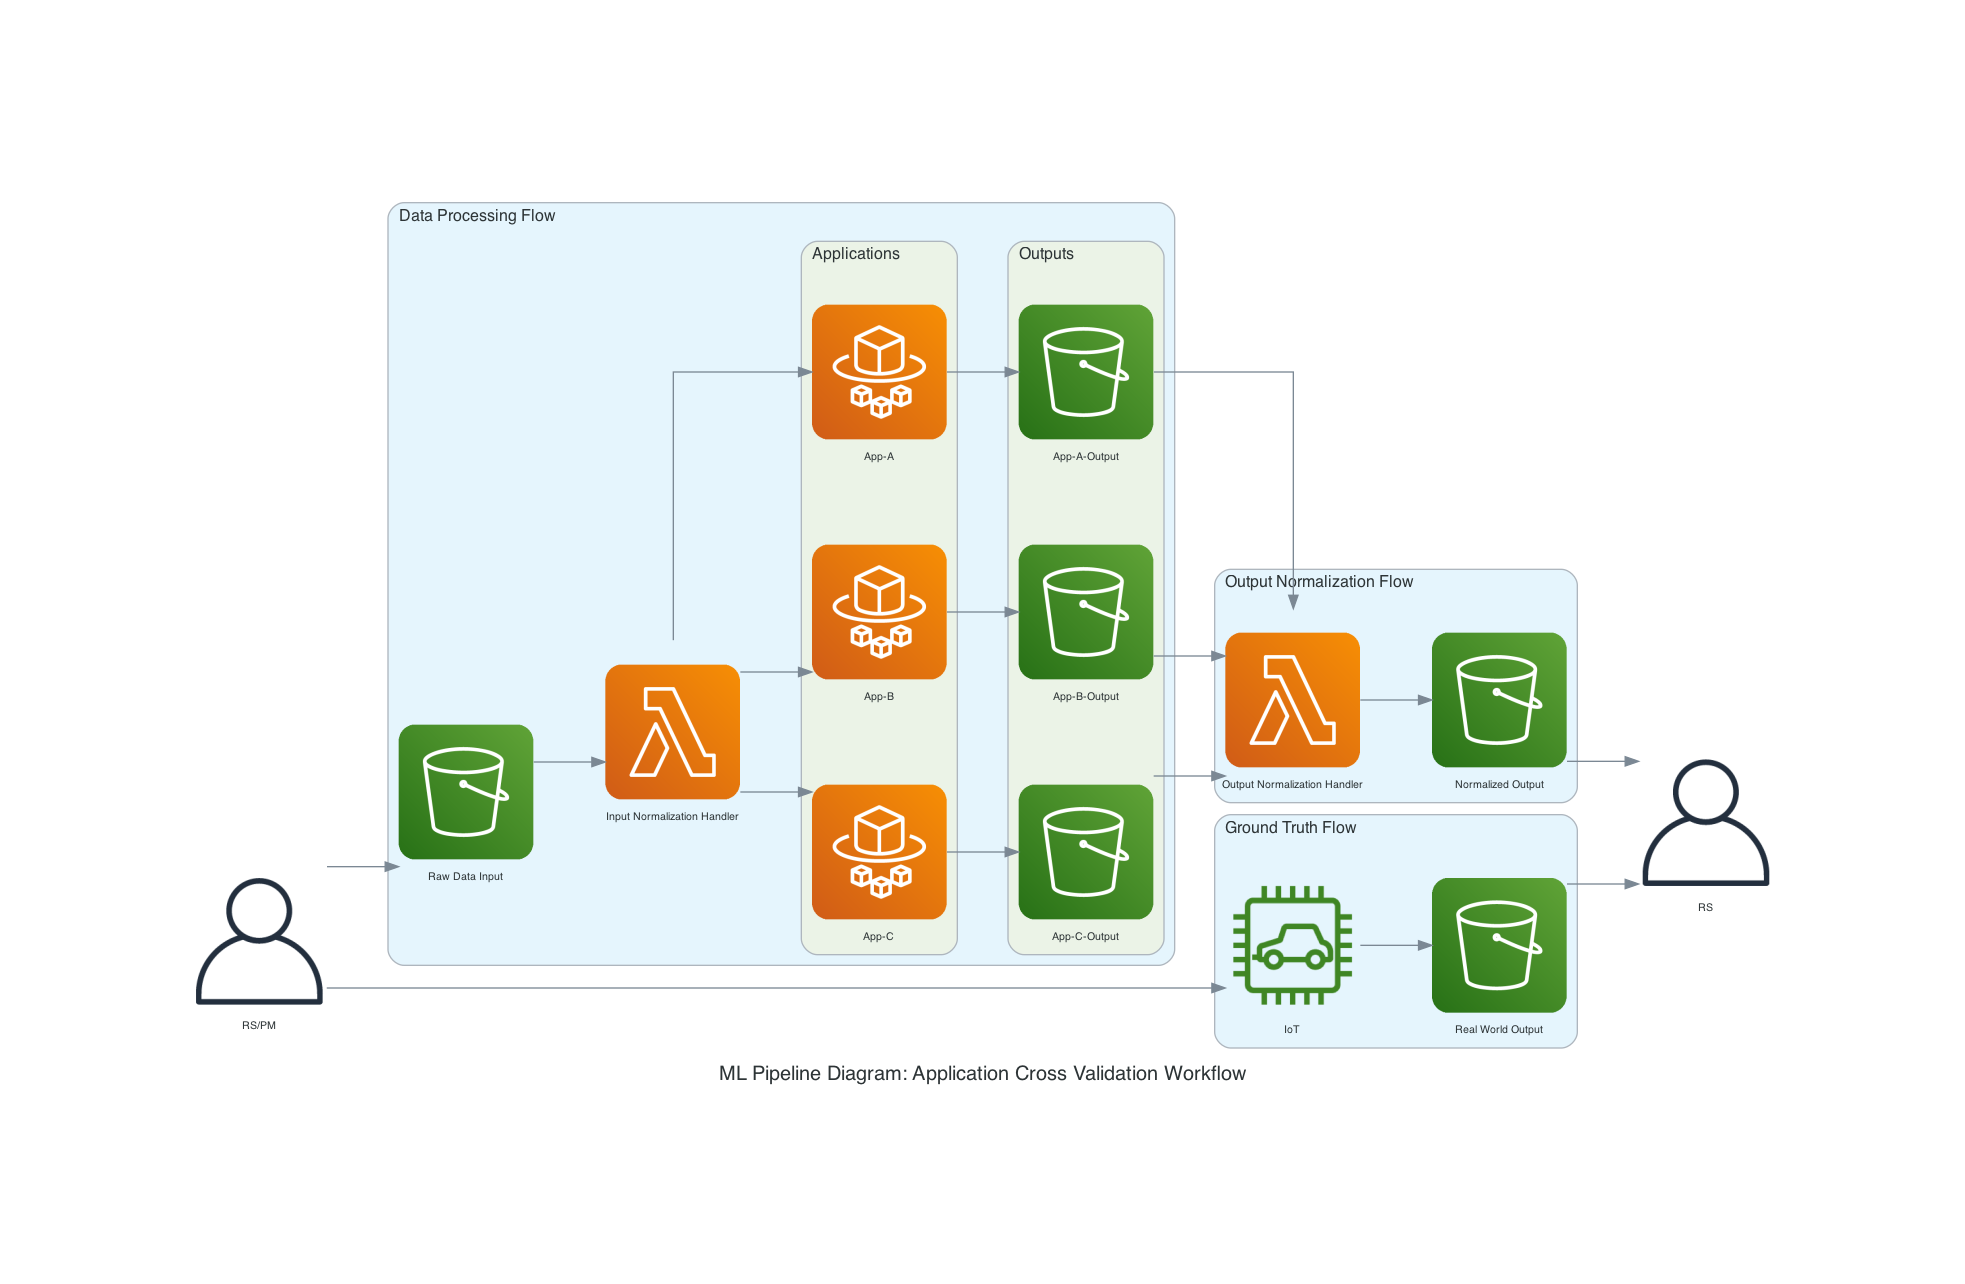
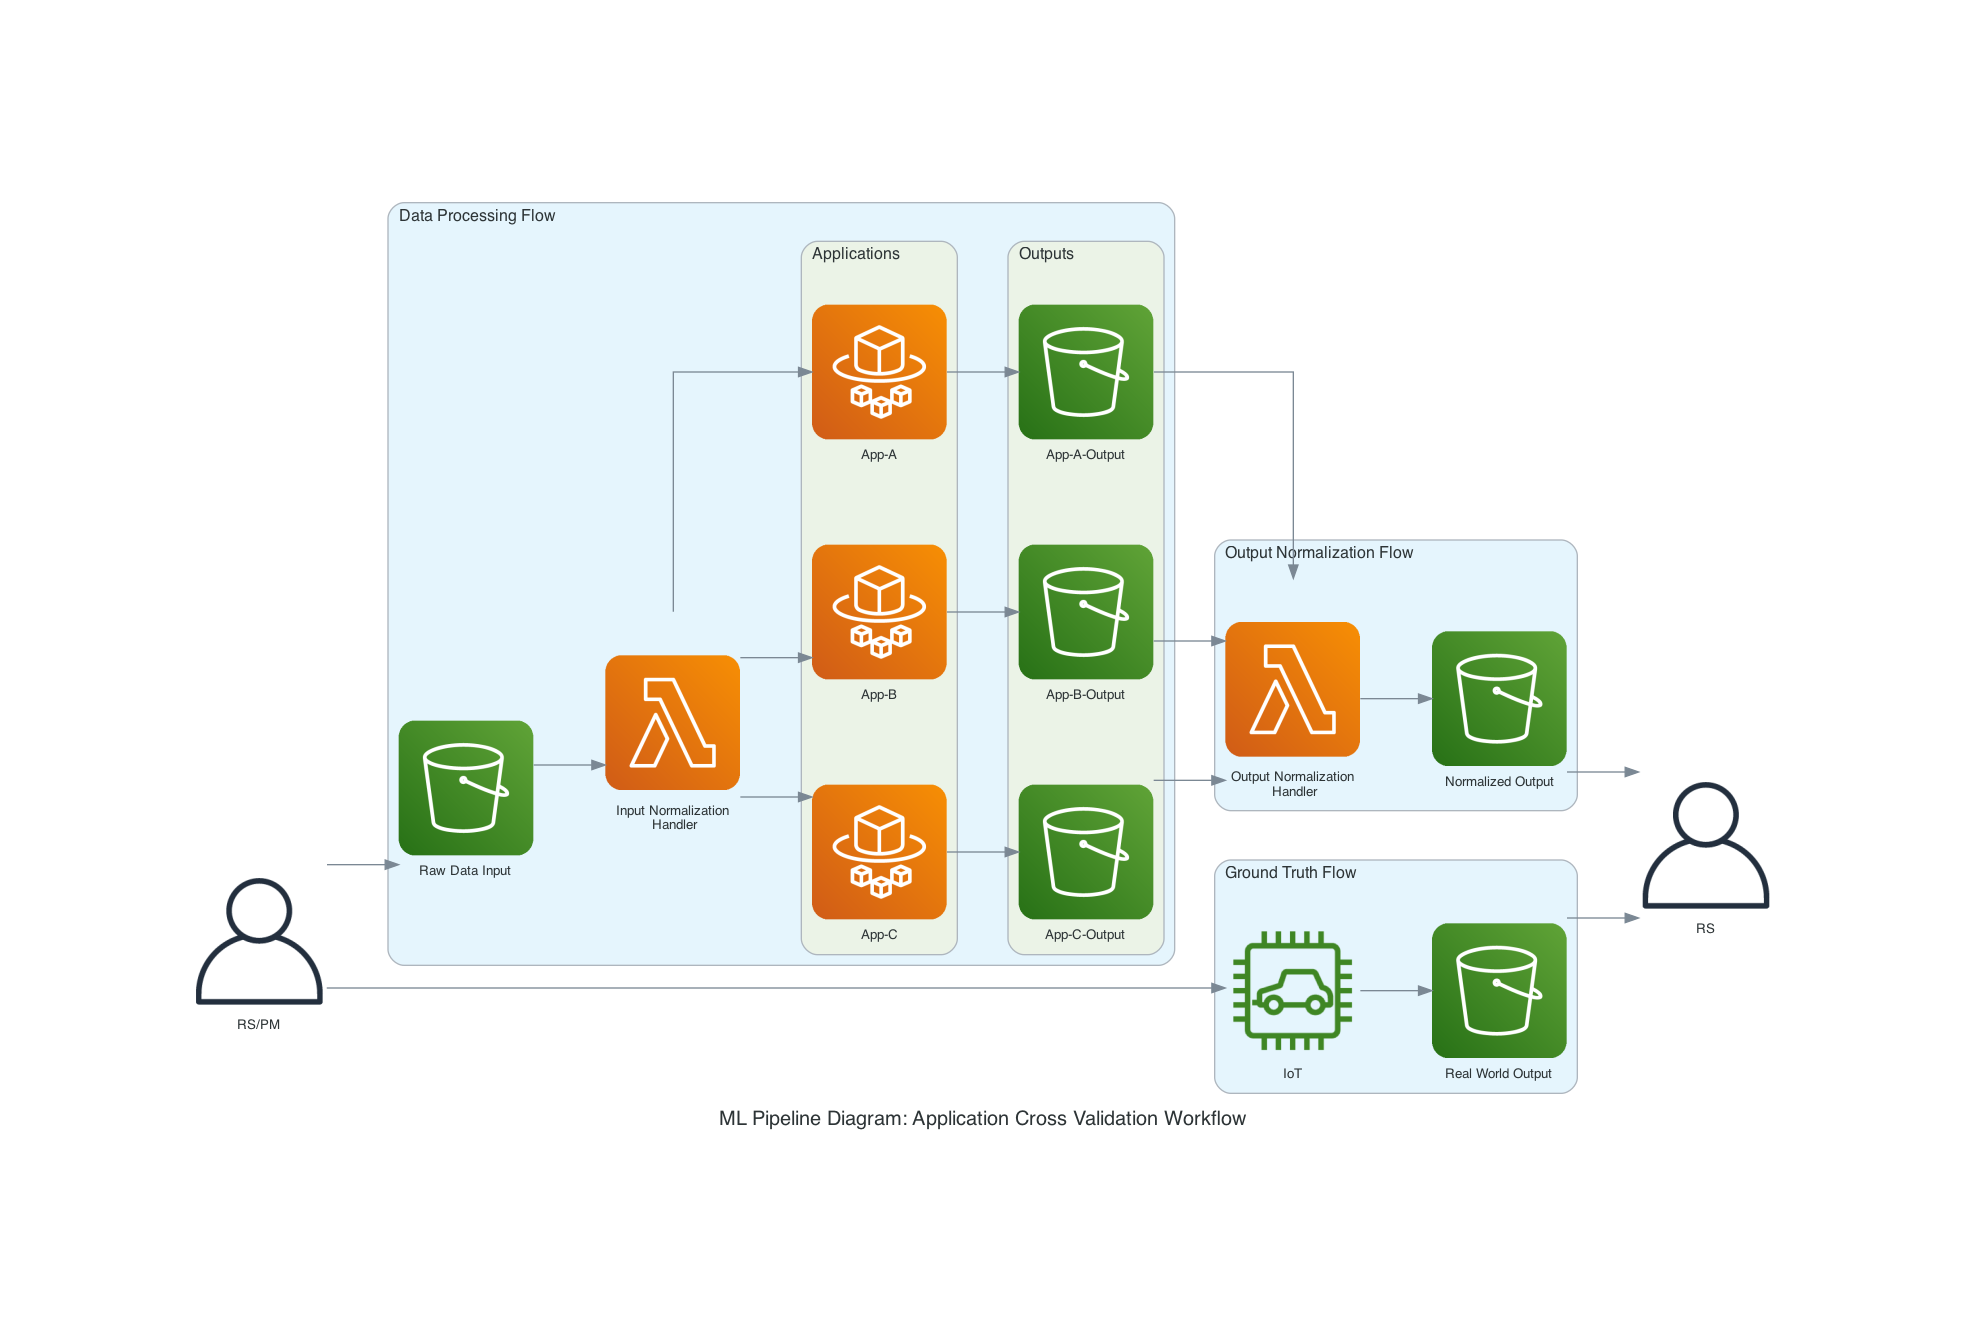
Update newline for node label

Changed region(s): [[0.0931, 0.405, 0.9003, 0.8723], [0.1863, 0.1246, 0.5898, 0.3738]]

diff --git a/src/diagram.py b/src/diagram.py
@@ -6,7 +6,7 @@ from diagrams.aws.general import User
 from diagrams.aws.iot import IotCar
 
 node_attr = {
-    "fontsize": "8"
+    "fontsize": "10"
 }
 
 graph_attr = {
@@ -36,13 +36,13 @@ with Diagram(
                 S3(app.label+"-Output") for app in software
             ]
 
-        dp_entry >> Lambda("Input Normalization Handler") >> software
+        dp_entry >> Lambda("Input Normalization\n Handler") >> software
         for i in range(len(software)):
             software[i] >> dp_exit[i]
 
 
     with Cluster("Output Normalization Flow"):
-        mi_entry = Lambda("Output Normalization Handler")
+        mi_entry = Lambda("Output Normalization\n Handler")
         mi_exit = S3("Normalized Output")
         mi_entry >> mi_exit
 
